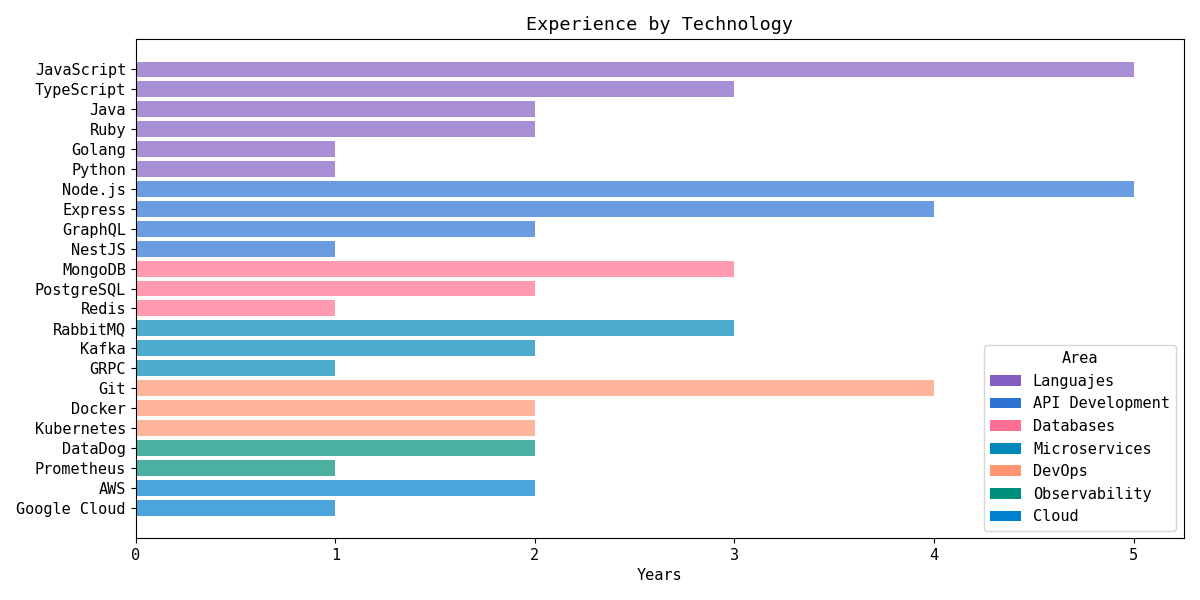
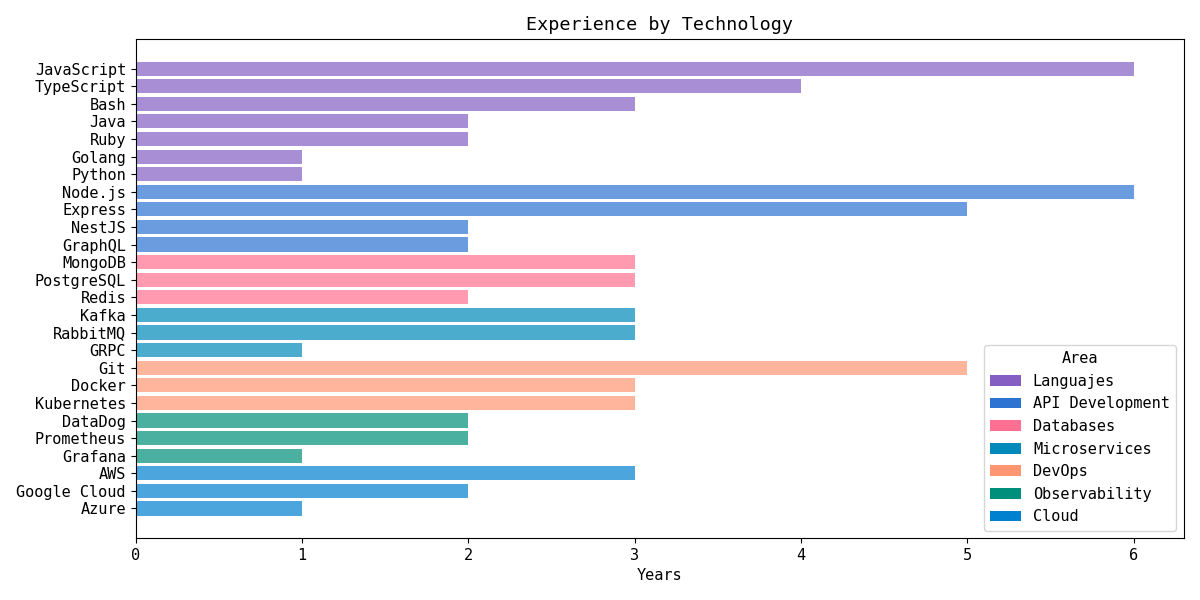
April 22, 2025 experience update

Changed region(s): [[0.0, 0.12, 0.9558, 0.87]]

diff --git a/plot.py b/plot.py
@@ -9,29 +9,32 @@ output_file = '/output/plot.png'
 
 # Defining the technologies and corresponding years of experience
 tech_experience = {
-    'JavaScript': 5,
+    'JavaScript': 6,
     'Java': 2,
     'Golang': 1,
     'Ruby': 2,
     'Python': 1,
-    'TypeScript': 3,
-    'Node.js': 5,
-    'Express': 4,
-    'NestJS': 1,
+    'TypeScript': 4,
+    'Bash': 3,
+    'Node.js': 6,
+    'Express': 5,
+    'NestJS': 2,
     'GraphQL': 2,
     'MongoDB': 3,
-    'PostgreSQL': 2,
-    'Redis': 1,
+    'PostgreSQL': 3,
+    'Redis': 2,
     'GRPC': 1,
-    'Kafka': 2,
+    'Kafka': 3,
     'RabbitMQ': 3,
-    'Git': 4,
-    'Docker': 2,
-    'Kubernetes': 2,
+    'Git': 5,
+    'Docker': 3,
+    'Kubernetes': 3,
     'DataDog': 2,
-    'Prometheus': 1,
-    'AWS': 2,
-    'Google Cloud': 1,
+    'Prometheus': 2,
+    'Grafana': 1,
+    'AWS': 3,
+    'Google Cloud': 2,
+    'Azure': 1,
 }
 # Grouping related technologies and defining colors
 group_colors = {
@@ -51,6 +54,7 @@ groups = {
     'Ruby': 'Languajes',
     'Python': 'Languajes',
     'TypeScript': 'Languajes',
+    'Bash': 'Languajes',
     'Node.js': 'API Development', 
     'Express': 'API Development',
     'NestJS': 'API Development',
@@ -66,8 +70,10 @@ groups = {
     'Kubernetes': 'DevOps',
     'DataDog': 'Observability',
     'Prometheus': 'Observability',
+    'Grafana': 'Observability',
     'AWS': 'Cloud',
     'Google Cloud': 'Cloud',
+    'Azure': 'Cloud',
 }
 
 # Sorting and grouping technologies by categories and years of experience
